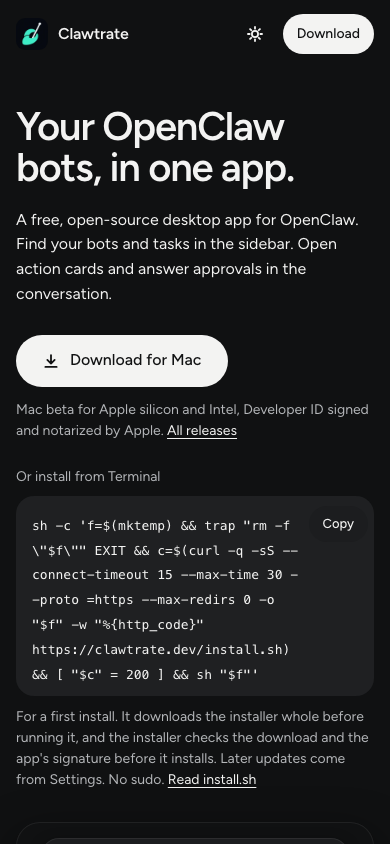
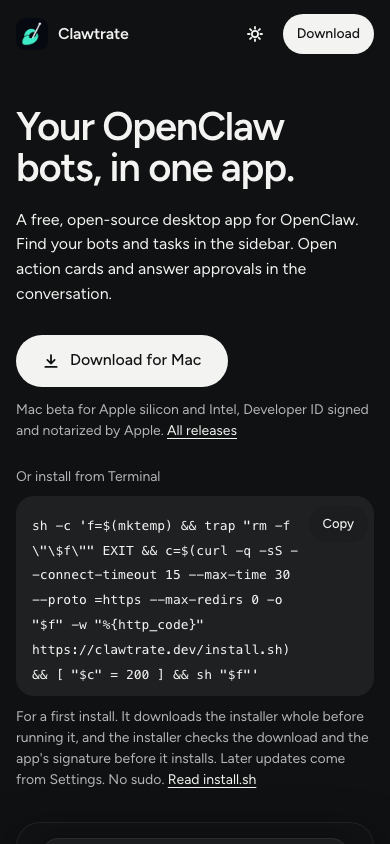
Preserve interrupted Mac installs and bound first-install downloads

Changed region(s): [[0.0923, 0.6469, 0.7385, 0.7393]]

diff --git a/site/index.html b/site/index.html
@@ -87,7 +87,7 @@
             <div class="cmd-box">
               <pre
                 aria-labelledby="cmd-hero-label"
-              ><code>sh -c 'f=$(mktemp) &amp;&amp; trap "rm -f \"$f\"" EXIT &amp;&amp; c=$(curl -q -sS --connect-timeout 15 --max-time 30 --proto =https --max-redirs 0 -o "$f" -w "%{http_code}" https://clawtrate.dev/install.sh) &amp;&amp; [ "$c" = 200 ] &amp;&amp; sh "$f"'</code></pre>
+              ><code>sh -c 'f=$(mktemp) &amp;&amp; trap "rm -f \"\$f\"" EXIT &amp;&amp; c=$(curl -q -sS --connect-timeout 15 --max-time 30 --proto =https --max-redirs 0 -o "$f" -w "%{http_code}" https://clawtrate.dev/install.sh) &amp;&amp; [ "$c" = 200 ] &amp;&amp; sh "$f"'</code></pre>
               <button class="copy" type="button" data-copy>Copy</button>
             </div>
             <p class="cmd-note">
@@ -537,7 +537,7 @@
             <div class="cmd-box cmd-close">
               <pre
                 aria-labelledby="cmd-close-label"
-              ><code>sh -c 'f=$(mktemp) &amp;&amp; trap "rm -f \"$f\"" EXIT &amp;&amp; c=$(curl -q -sS --connect-timeout 15 --max-time 30 --proto =https --max-redirs 0 -o "$f" -w "%{http_code}" https://clawtrate.dev/install.sh) &amp;&amp; [ "$c" = 200 ] &amp;&amp; sh "$f"'</code></pre>
+              ><code>sh -c 'f=$(mktemp) &amp;&amp; trap "rm -f \"\$f\"" EXIT &amp;&amp; c=$(curl -q -sS --connect-timeout 15 --max-time 30 --proto =https --max-redirs 0 -o "$f" -w "%{http_code}" https://clawtrate.dev/install.sh) &amp;&amp; [ "$c" = 200 ] &amp;&amp; sh "$f"'</code></pre>
               <button class="copy" type="button" data-copy>Copy</button>
             </div>
             <p class="oss">

diff --git a/test/site-install-command.test.ts b/test/site-install-command.test.ts
@@ -1,0 +1,31 @@
+import { spawnSync } from "node:child_process";
+import { mkdirSync, mkdtempSync, readdirSync, readFileSync, rmSync, writeFileSync } from "node:fs";
+import { tmpdir } from "node:os";
+import { join } from "node:path";
+import { expect, it } from "vitest";
+
+it.skipIf(process.platform !== "darwin")(
+  "the Mac install command cleans up a temporary path containing a literal dollar sign",
+  () => {
+    const script = readFileSync(new URL("../site/install.sh", import.meta.url), "utf8");
+    const command = script.match(/^# +(sh -c .+)$/m)?.[1];
+    if (!command) throw new Error("Missing install command");
+    const page = readFileSync(new URL("../site/index.html", import.meta.url), "utf8");
+    expect(page.split(command.replaceAll("&", "&amp;"))).toHaveLength(3);
+
+    const root = mkdtempSync(join(tmpdir(), "clawtrate-command-"));
+    try {
+      const temporary = join(root, "Mac $edition");
+      mkdirSync(temporary);
+      // A failed local stand-in still takes the command through its EXIT trap.
+      writeFileSync(join(root, "curl"), "#!/bin/sh\nexit 7\n", { mode: 0o700 });
+      const result = spawnSync("/bin/sh", ["-c", command], {
+        env: { PATH: `${root}:/usr/bin:/bin`, TMPDIR: temporary },
+      });
+      expect(result.status).toBe(7);
+      expect(readdirSync(temporary)).toEqual([]);
+    } finally {
+      rmSync(root, { recursive: true, force: true });
+    }
+  },
+);

diff --git a/docs/decisions.md b/docs/decisions.md
@@ -857,10 +857,10 @@ The site is published only together with the first signed beta, through the Site
 - pins Clawtrate's Developer ID team in `CLAWTRATE_TEAM_ID` and refuses to run while that is the placeholder;
 - reads `updates/beta/latest-mac.json` (`{"teamIdentifier", "arm64": {"version", "url", "sha256"}, "x86_64": {…}}`) as a direct HTTP 200, strictly: JSON with no repeated key, exactly these fields and no others, the pinned team, one beta version in both entries whose date is a real calendar date, lowercase 64-character digests, and each address exactly `https://github.com/sidebandstudio/clawtrate/releases/download/v<version>/Clawtrate-<version>-mac-<arm64|x64>.zip`;
 - takes the arm64 build on Apple silicon, also from a shell under Rosetta (`hw.optional.arm64`, `sysctl.proc_translated`), and the x86_64 build otherwise;
-- follows at most one redirect from the release address, and only to `https://release-assets.githubusercontent.com`, checked before the second request, which is how GitHub serves release files (the app's updater follows no redirect); every curl call has `--globoff`, so the address checked is the address requested; the feed must arrive within 30 seconds, and a download that stays below 1 KB/s for 30 seconds fails;
+- follows at most one redirect from the release address, and only to `https://release-assets.githubusercontent.com`, checked before the second request, which is how GitHub serves release files (the app's updater follows no redirect); every curl call has `--globoff`, so the address checked is the address requested; the feed must arrive within 30 seconds, and a download that stays below 1 KB/s for 30 seconds fails. The feed is limited to 64 KiB and the ZIP to 2 GB even when the server omits its size;
 - checks the SHA-256, then the archive before unpacking: only `Clawtrate.app`, no unsafe or repeated paths, the AppleDouble entries `ditto --sequesterRsrc` writes, and links only where an Electron framework has them, each link's target read from the archive and compared byte for byte with the one allowed (`Versions/Current` to `A`, a framework's top-level entry to `Versions/Current/<name>`); after unpacking it checks the tree again without following links;
 - reads the app itself: bundle id `dev.clawtrate.desktop`, the feed's version, an executable for this processor; then `codesign --verify --deep --strict`, a readable signature with that identifier, a Developer ID Application authority, the pinned team and a code directory hash, and `spctl` reporting `source=Notarized Developer ID`, as the release script checks each app;
-- copies the app to a private folder beside the target, checks that staged copy the same way and requires the same code directory hash, moves it into place with macOS’s exclusive rename, which preserves a destination created during the move, requires that the app at the target is the staged copy (its device and inode), and checks it in full once more, with the same hash, before reporting success. A copy that fails that last check is taken out again, only while the target is still the staged copy, and what was taken out is deleted only if it is that copy. Anything else found at the target is left alone, and the output says where the staged copy is. INT, TERM and HUP remove only this run's private files.
+- copies the app to a private folder beside the target, checks that staged copy the same way and requires the same code directory hash, moves it into place with macOS’s exclusive rename, which preserves a destination created during the move, requires that the app at the target is the staged copy (its device and inode), and checks it in full once more, with the same hash, before reporting success. A copy that fails that last check is taken out again, only while the target is still the staged copy, and what was taken out is deleted only if it is that copy. If verification is interrupted or the moved item cannot be identified, the installer keeps the staging folder and reports its path. Anything else found at the target is left alone, and the output says where the staged copy is. INT, TERM and HUP remove only this run's private files.
 
 `CLAWTRATE_FEED`, `CLAWTRATE_RELEASES` and `CLAWTRATE_ASSETS` point it at stand-ins on `http://127.0.0.1` for tests, and `CLAWTRATE_APPLICATIONS` at another folder to install into.
 
